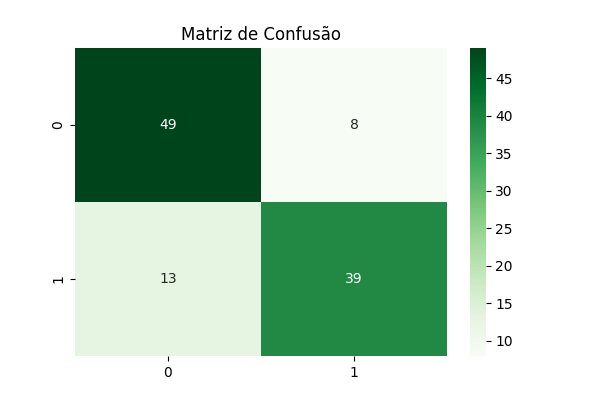
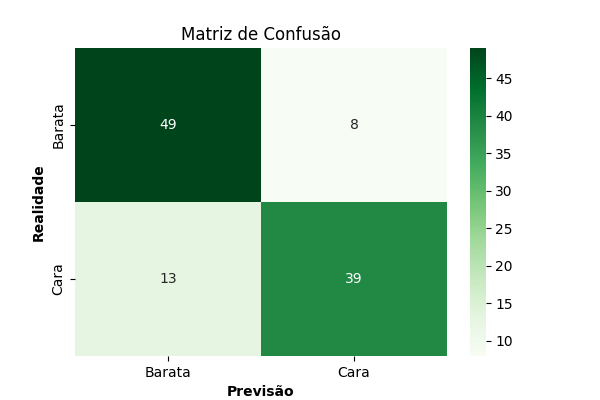
better confusion matrix

diff --git a/src/main.py b/src/main.py
@@ -108,8 +108,10 @@ print("\nRelatório de Performance (Precisão e Recall):")
 print(classification_report(y_test_cat, y_pred_cat, target_names=['Barata', 'Cara']))
 
 plt.figure(figsize=(6, 4))
-sns.heatmap(confusion_matrix(y_test_cat, y_pred_cat), annot=True, fmt='d', cmap='Greens')
+sns.heatmap(confusion_matrix(y_test_cat, y_pred_cat), annot=True, fmt='d', cmap='Greens', xticklabels=['Barata', 'Cara'], yticklabels=['Barata', 'Cara'])
 plt.title('Matriz de Confusão')
+plt.ylabel('Realidade', fontweight='bold')
+plt.xlabel('Previsão', fontweight='bold')
 plt.show()
 
 # 2. Testar diferentes divisões (Split Ratios)